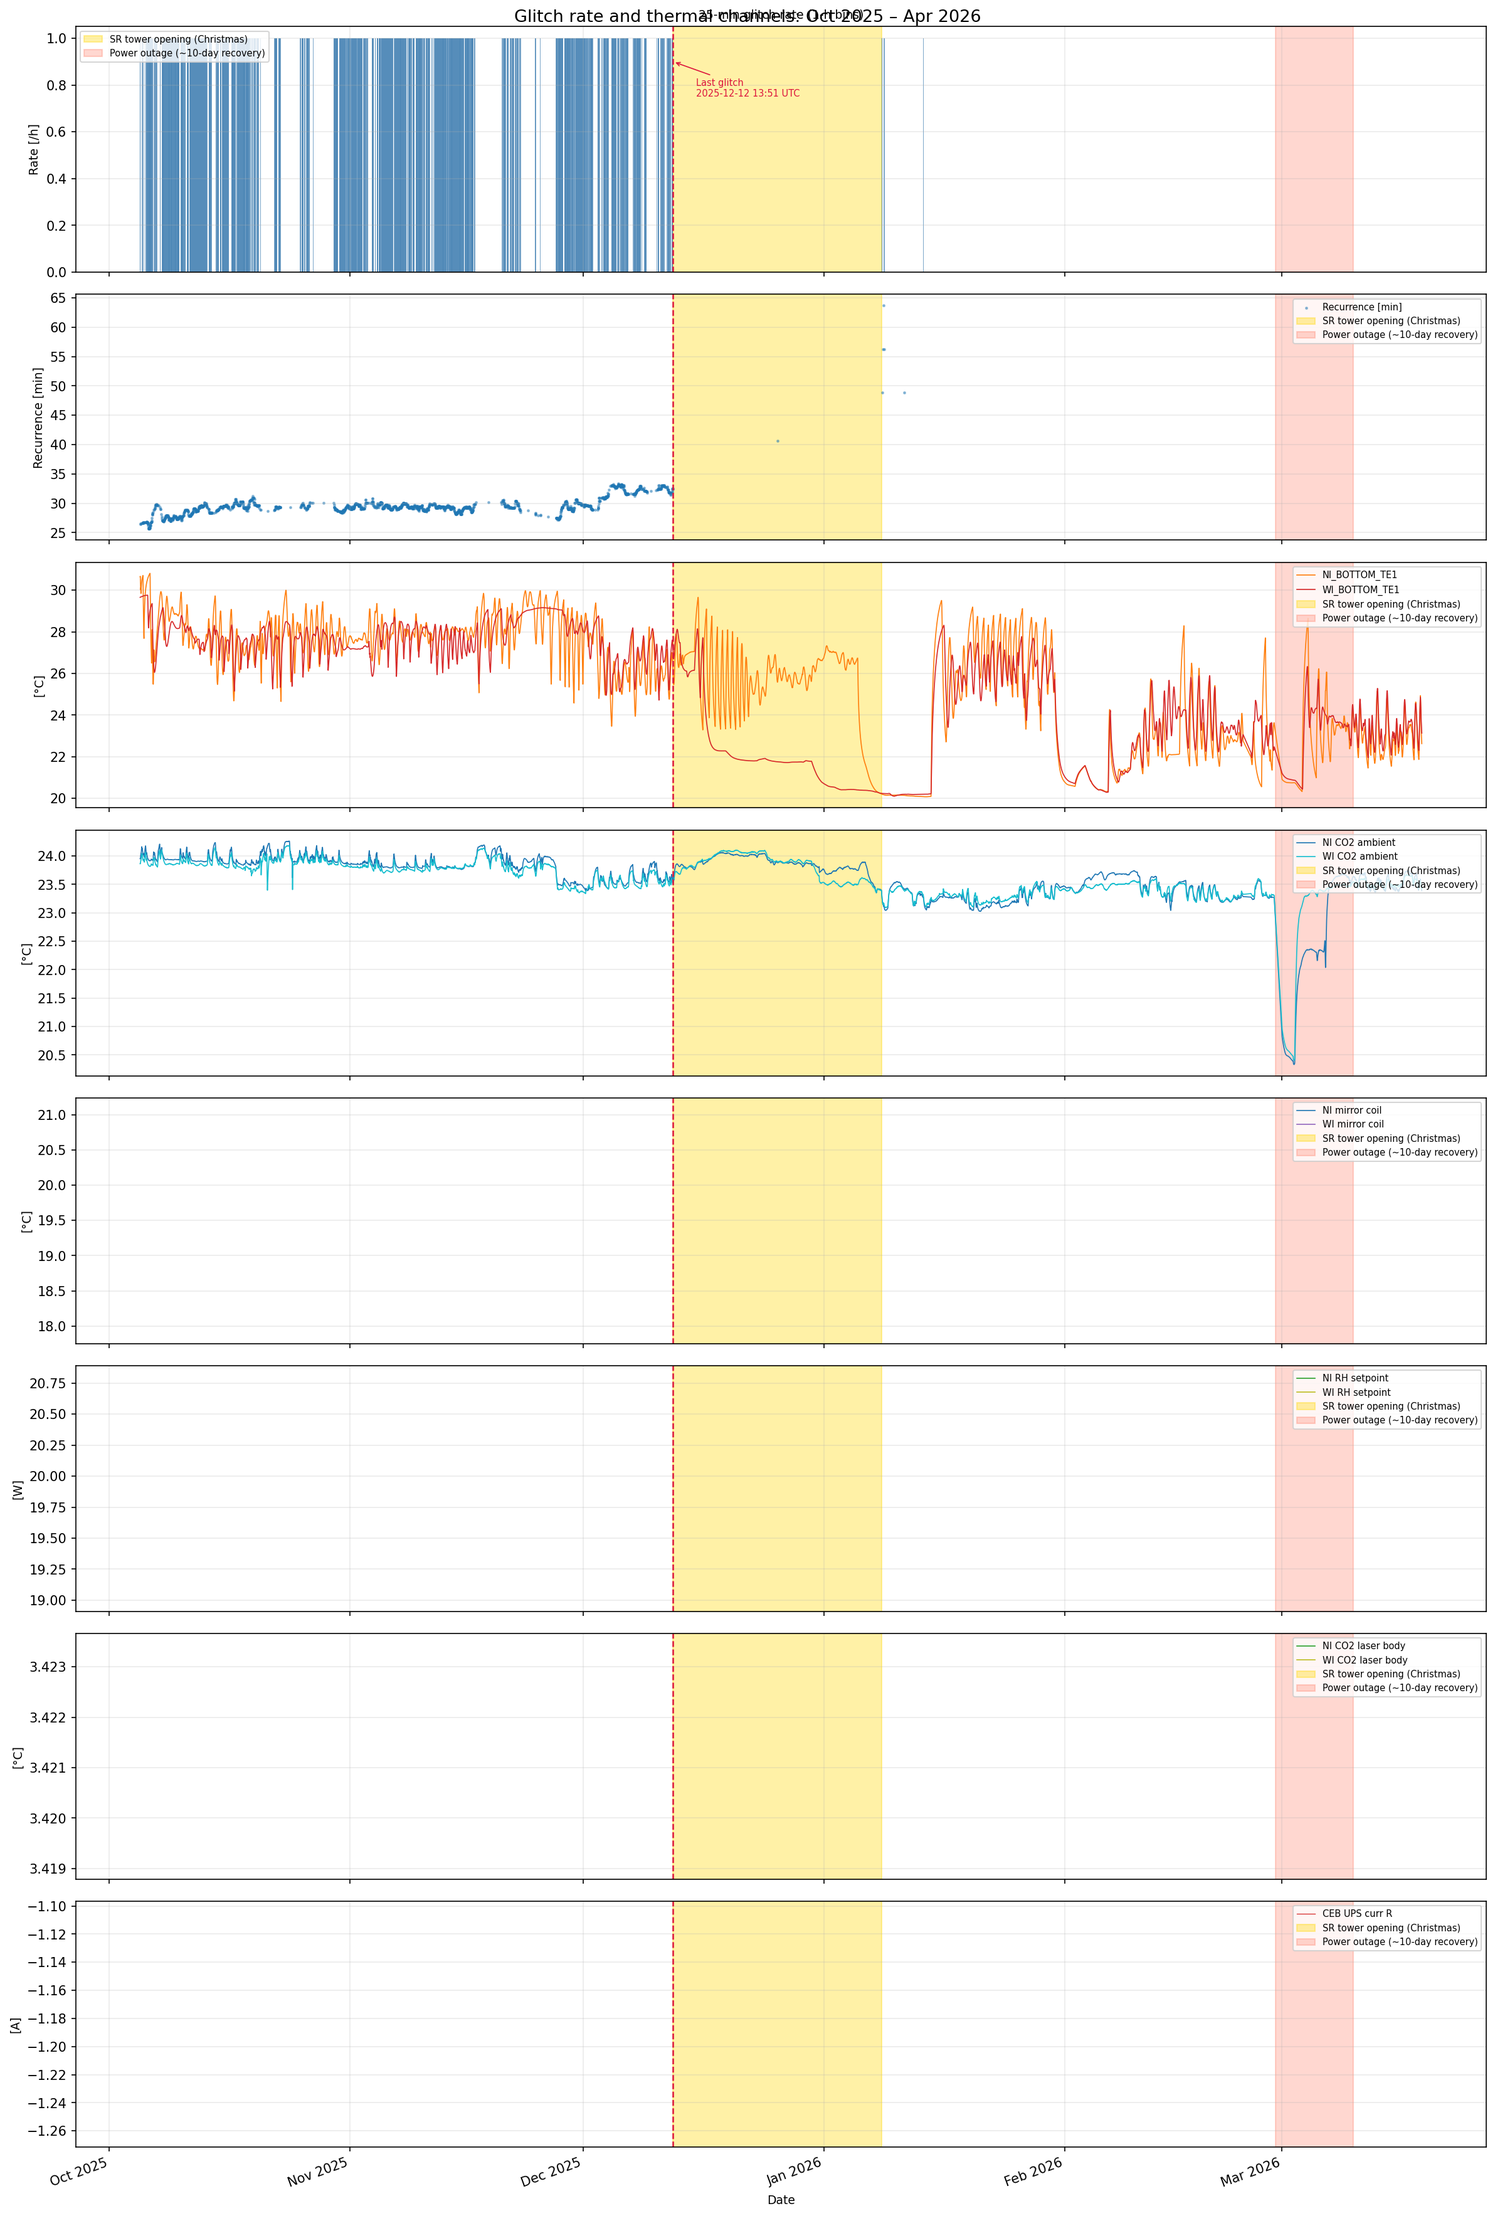
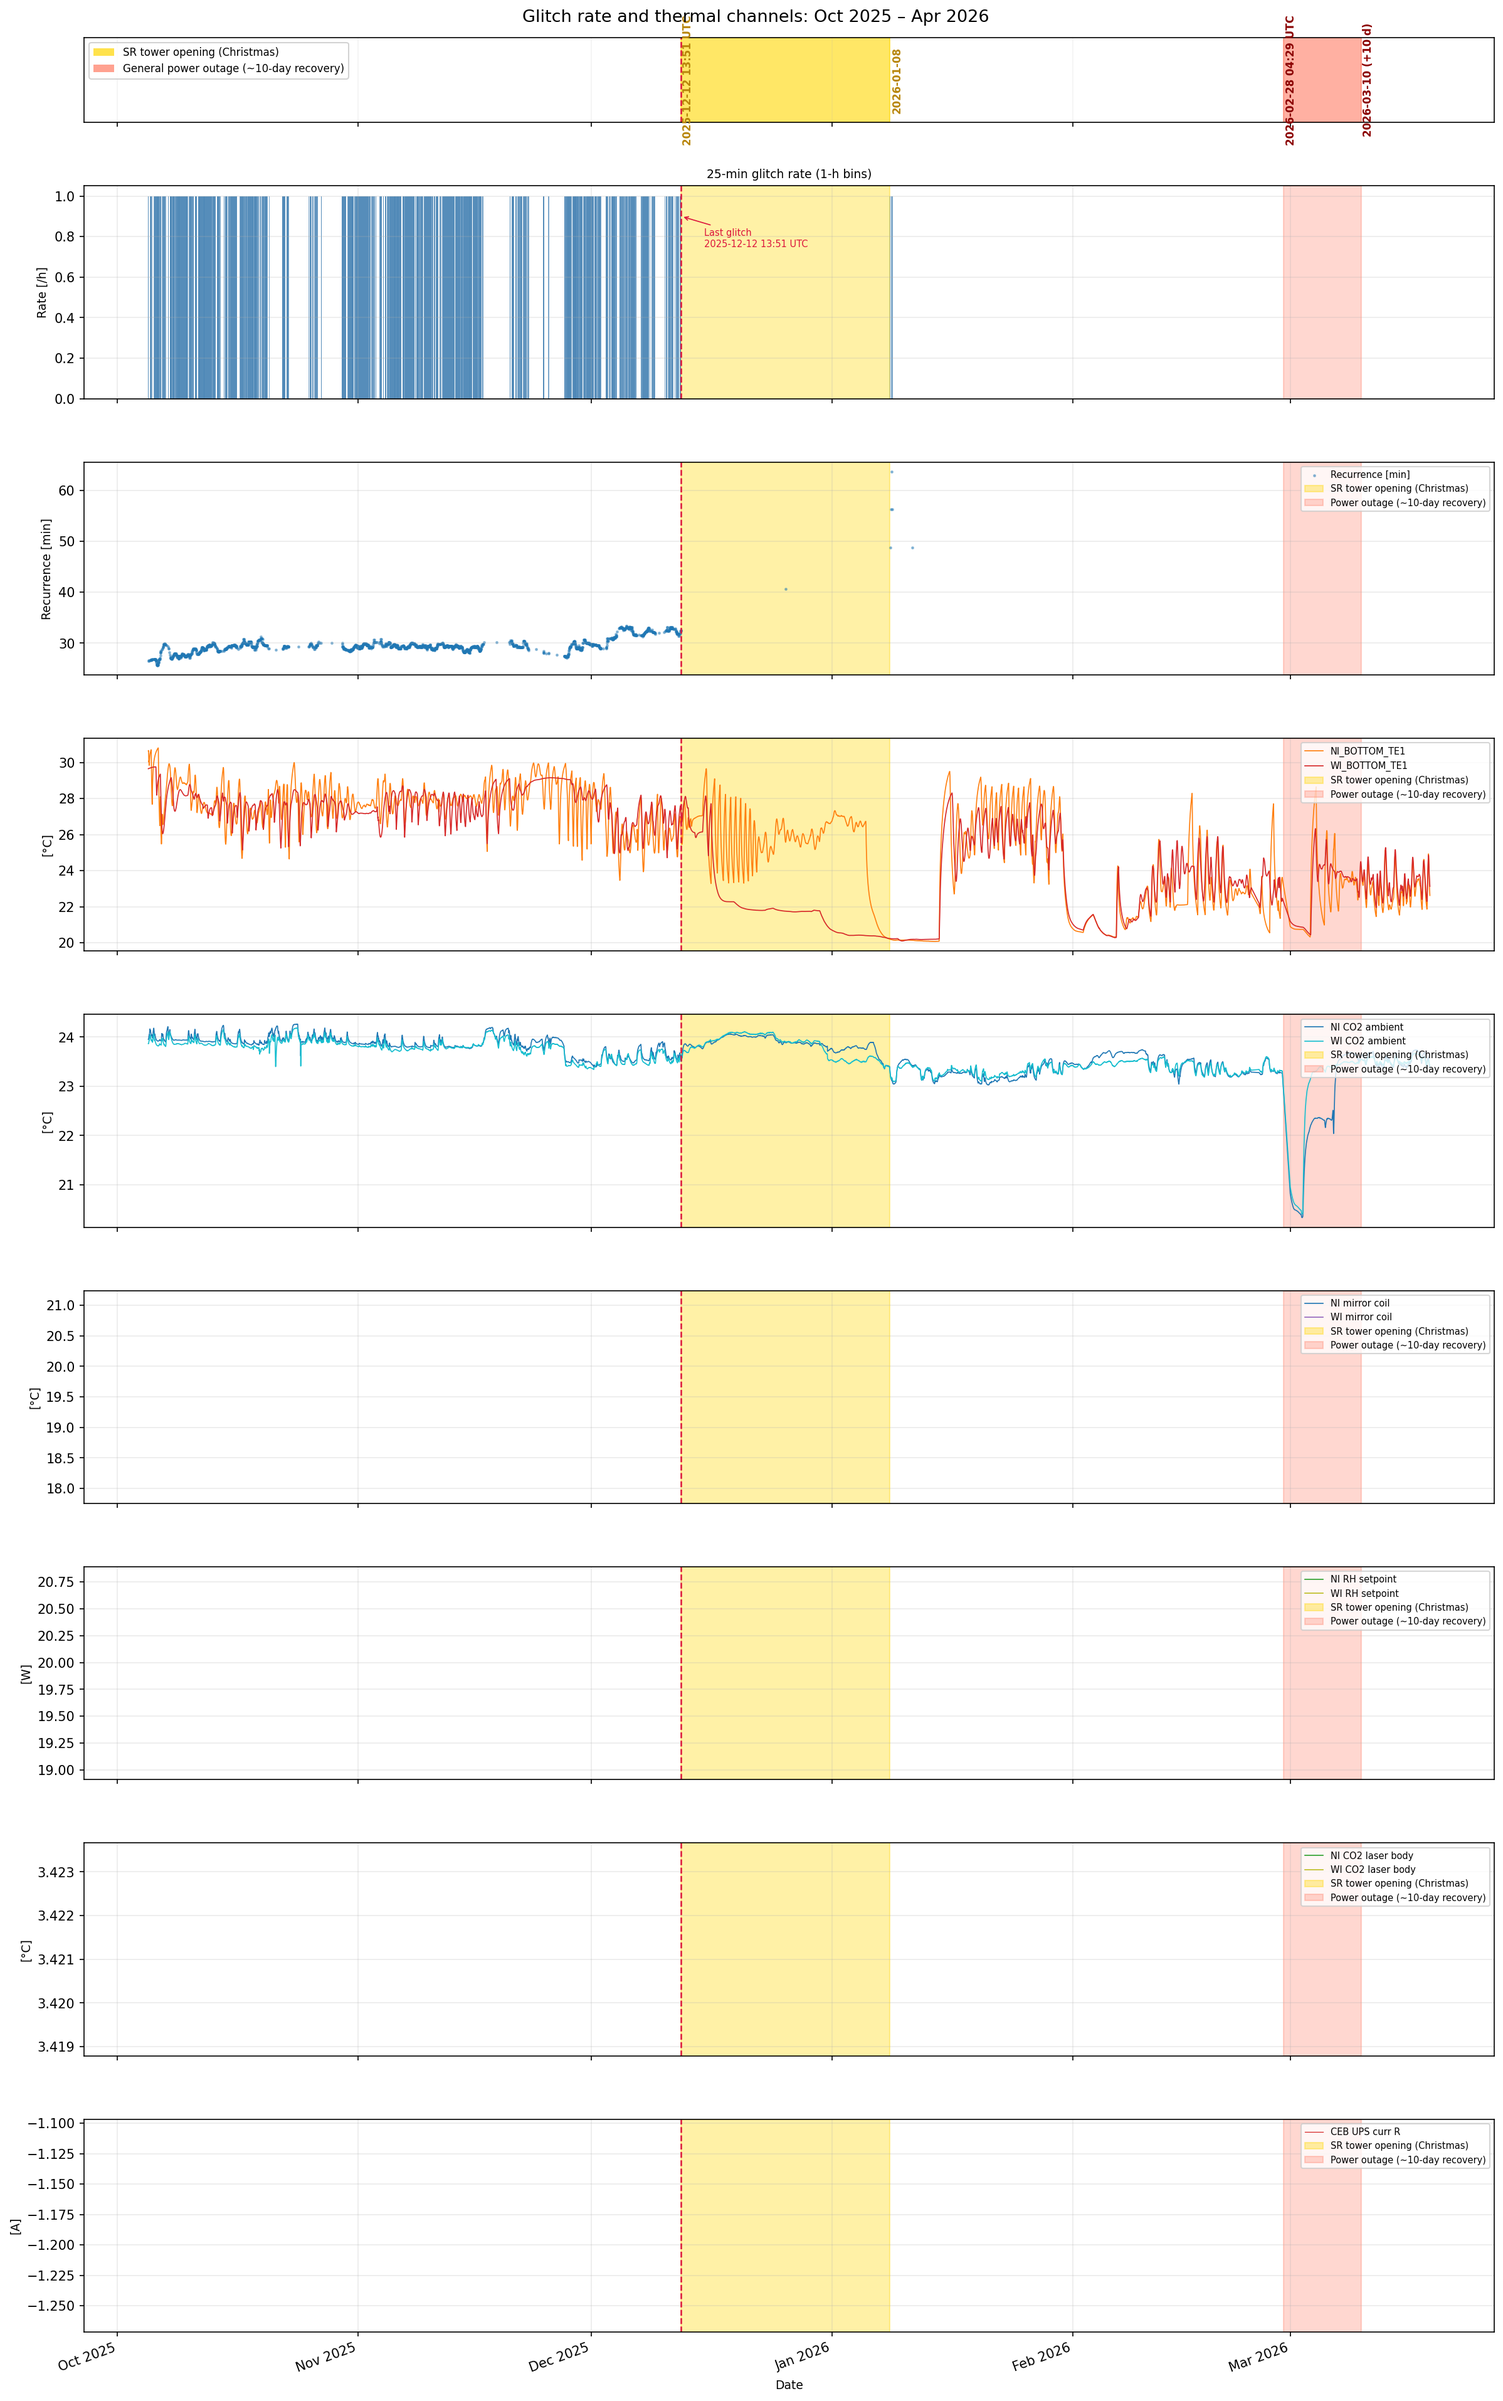
feat: add event timeline panel with precise dates for both events
- New top panel (panel 0) dedicated to event timeline: colored bands
  with explicit date labels at start/end of each zone
- Yellow band (Christmas): 2025-12-12 13:51 UTC → 2026-01-08
- Orange band (power outage): 2026-02-28 04:30 UTC → +10 d (~2026-03-10)
- Data panels shifted to indices 1-8; timeline uses height_ratio 0.4

diff --git a/scripts/plot_disappearance_timeseries.py b/scripts/plot_disappearance_timeseries.py
@@ -118,34 +118,63 @@ def plot(binned_csv: str, step4_dir: str, triggers_csv: str,
         if legend:
             ax.legend(fontsize=7, loc="upper right")
 
-    # ── figure ────────────────────────────────────────────────────────────────
-    fig, axes = plt.subplots(8, 1, figsize=(16, 24), sharex=True)
+    def draw_timeline(ax):
+        """Dedicated thin panel: colored bands + clear date labels at edges."""
+        ax.set_ylim(0, 1)
+        ax.set_yticks([])
+        ax.axvspan(last_trig_dt, itf_end_dt, color="gold",   alpha=0.6, zorder=0)
+        ax.axvspan(outage_dt,    recovery_dt, color="tomato", alpha=0.5, zorder=0)
+        ax.axvline(last_trig_dt, color="crimson", lw=1.2, ls="--")
+        ax.xaxis.set_major_formatter(xfmt)
+        ax.grid(alpha=0.15)
+        kw = dict(fontsize=8, va="center", ha="left", rotation=90,
+                  fontweight="bold", clip_on=False, zorder=7)
+        # Yellow band edges
+        ax.text(last_trig_dt + pd.Timedelta(hours=4), 0.5,
+                last_trig_dt.strftime("%Y-%m-%d %H:%M UTC"),
+                color="darkgoldenrod", **kw)
+        ax.text(itf_end_dt   + pd.Timedelta(hours=4), 0.5,
+                itf_end_dt.strftime("%Y-%m-%d"),
+                color="darkgoldenrod", **kw)
+        # Orange band edges
+        ax.text(outage_dt    + pd.Timedelta(hours=4), 0.5,
+                outage_dt.strftime("%Y-%m-%d %H:%M UTC"),
+                color="darkred", **kw)
+        ax.text(recovery_dt  + pd.Timedelta(hours=4), 0.5,
+                recovery_dt.strftime("%Y-%m-%d (+10 d)"),
+                color="darkred", **kw)
+        # Legend patches
+        from matplotlib.patches import Patch
+        ax.legend(handles=[
+            Patch(fc="gold",   alpha=0.7, label="SR tower opening (Christmas)"),
+            Patch(fc="tomato", alpha=0.6, label="General power outage (~10-day recovery)"),
+        ], fontsize=8, loc="upper left", framealpha=0.85)
+
+    # ── figure: 9 panels (timeline + 8 data) ─────────────────────────────────
+    fig, axes = plt.subplots(9, 1, figsize=(16, 26), sharex=True,
+                             gridspec_kw={"height_ratios": [0.4]+[1]*8})
     fig.suptitle("Glitch rate and thermal channels: Oct 2025 – Apr 2026",
                  fontsize=13)
 
+    # ── Panel 0: event timeline ───────────────────────────────────────────────
+    draw_timeline(axes[0])
+
     # ── Panel 1: glitch rate ──────────────────────────────────────────────────
-    ax = axes[0]
+    ax = axes[1]
     rate = df["n_triggers"].values.astype(float)
     ax.bar(dt.values, rate, width=np.timedelta64(3600, "s"),
            color="steelblue", alpha=0.7)
-    ax.axvspan(last_trig_dt, itf_end_dt, color="gold", alpha=0.35, zorder=0,
-               label="SR tower opening (Christmas)")
-    ax.axvspan(outage_dt, recovery_dt, color="tomato", alpha=0.25, zorder=0,
-               label="Power outage (~10-day recovery)")
-    ax.axvline(last_trig_dt, color="crimson", lw=1.2, ls="--")
     ax.annotate(f"Last glitch\n{last_trig_dt.strftime('%Y-%m-%d %H:%M UTC')}",
                 xy=(last_trig_dt, rate.max() * 0.9),
                 xytext=(last_trig_dt + pd.Timedelta(days=3), rate.max() * 0.75),
                 color="crimson", fontsize=7,
                 arrowprops=dict(arrowstyle="->", color="crimson", lw=0.8))
-    ax.legend(fontsize=7, loc="upper left")
+    decorate(ax, legend=False)
     ax.set_ylabel("Rate [/h]", fontsize=9)
     ax.set_title("25-min glitch rate (1-h bins)", fontsize=9)
-    ax.xaxis.set_major_formatter(xfmt)
-    ax.grid(alpha=0.25)
 
     # ── Panel 2: ITF lock fraction ────────────────────────────────────────────
-    ax = axes[1]
+    ax = axes[2]
     if lock is not None:
         lock_dt = gps_to_dt(lock["gps_bin"].values)
         ax.plot(lock_dt.values, lock["lock_frac"].values,
@@ -153,7 +182,6 @@ def plot(binned_csv: str, step4_dir: str, triggers_csv: str,
         ax.set_ylabel("Lock fraction", fontsize=9)
         ax.set_ylim(-0.05, 1.05)
     else:
-        # Fallback: recurrence period
         ax.scatter(gps_to_dt(t_mid).values, smooth / 60,
                    s=2, alpha=0.4, color="tab:blue",
                    label="Recurrence [min]")
@@ -161,7 +189,7 @@ def plot(binned_csv: str, step4_dir: str, triggers_csv: str,
     decorate(ax)
 
     # ── Panel 3: tower bottom temperatures ───────────────────────────────────
-    ax = axes[2]
+    ax = axes[3]
     for col, lab, color in [("ni_bottom_te1", "NI_BOTTOM_TE1", "tab:orange"),
                              ("wi_bottom_te1", "WI_BOTTOM_TE1", "tab:red")]:
         if col in df.columns:
@@ -170,7 +198,7 @@ def plot(binned_csv: str, step4_dir: str, triggers_csv: str,
     ax.set_ylabel("[°C]", fontsize=9)
 
     # ── Panel 4: NI/WI CO2 bench ambient temperatures ─────────────────────────
-    ax = axes[3]
+    ax = axes[4]
     for col, lab, color in [("ni_co2_env_te", "NI CO2 ambient", "tab:blue"),
                              ("wi_co2_env_te", "WI CO2 ambient", "tab:cyan")]:
         if col in df.columns:
@@ -179,7 +207,7 @@ def plot(binned_csv: str, step4_dir: str, triggers_csv: str,
     ax.set_ylabel("[°C]", fontsize=9)
 
     # ── Panel 5: mirror coil temperatures ────────────────────────────────────
-    ax = axes[4]
+    ax = axes[5]
     for col, lab, color in [("ni_mir_coil_te", "NI mirror coil", "tab:blue"),
                              ("wi_mir_coil_te", "WI mirror coil", "tab:purple")]:
         if col in df.columns:
@@ -188,7 +216,7 @@ def plot(binned_csv: str, step4_dir: str, triggers_csv: str,
     ax.set_ylabel("[°C]", fontsize=9)
 
     # ── Panel 6: ring heater setpoints ───────────────────────────────────────
-    ax = axes[5]
+    ax = axes[6]
     for col, lab, color in [("ni_rh_set", "NI RH setpoint", "tab:green"),
                              ("wi_rh_set", "WI RH setpoint", "tab:olive")]:
         if col in df.columns:
@@ -197,7 +225,7 @@ def plot(binned_csv: str, step4_dir: str, triggers_csv: str,
     ax.set_ylabel("[W]", fontsize=9)
 
     # ── Panel 7: CO2 laser body temperatures ─────────────────────────────────
-    ax = axes[6]
+    ax = axes[7]
     for col, lab, color in [("ni_co2_tc", "NI CO2 laser body", "tab:green"),
                              ("wi_co2_tc", "WI CO2 laser body", "tab:olive")]:
         if col in df.columns:
@@ -206,7 +234,7 @@ def plot(binned_csv: str, step4_dir: str, triggers_csv: str,
     ax.set_ylabel("[°C]", fontsize=9)
 
     # ── Panel 8: CEB UPS current ──────────────────────────────────────────────
-    ax = axes[7]
+    ax = axes[8]
     if "ceb_ups_curr_r" in df.columns:
         ax.plot(dt.values, df["ceb_ups_curr_r"].values,
                 color="tab:red", lw=0.6, label="CEB UPS curr R")
